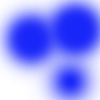
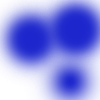
[adjust] home kv background star

diff --git a/index.html b/index.html
@@ -78,11 +78,13 @@
             <div class="home--kv--wrapper">
                 <img src="img/bg-star--l.svg" class="img-fluid home--kv--bg--star--l">
                 <img src="img/bg-star--r.svg" class="img-fluid home--kv--bg--star--r">
+                <div class="home--kv--bg--cloud"></div>
                 <img src="img/kv-bg-deco1.svg" alt="" class="img-fluid home--kv--bg--deco1">
                 <img src="img/kv-bg-deco2.svg" alt="" class="img-fluid home--kv--bg--deco2">
                 <img src="img/bg-planet--l.svg" class="img-fluid home--kv--bg--planet--l">
                 <img src="img/bg-planet--r.svg" class="img-fluid home--kv--bg--planet--r">
                 <img src="img/bg-planet-orange.svg" class="img-fluid home--kv--deco--planet--orange">
+
                 <div class="home--kv--logo">
                     <svg xmlns="http://www.w3.org/2000/svg" viewBox="0 0 781.19 369.24"><title>Modern Web 2019</title><g id="_1-kv-logo_text" data-name="1-kv-logo text"><text transform="translate(237.46 363.07)" style="font-size:32px;fill:#fff;font-family:Interstate-Bold,Interstate,'Open Sans','Helvetica Neue','微軟正黑體',Helvetica, Arial,sans-serif;font-weight:500;font-weight:500;letter-spacing:0.1999969482421875em">8/<tspan x="50.3" y="0" style="letter-spacing:0.100006103515625em">28 - 29, 2019</tspan></text><text transform="translate(218.42 313.13)" style="font-size:32px;fill:#fff;font-family:NotoSansCJKtc-Medium-B5pc-H, Noto Sans CJK TC, 'Open Sans', 'Helvetica Neue', '微軟正黑體', Helvetica, Arial, sans-serif;font-weight:500;letter-spacing:0.024993896484375em">TICC 臺北國際會議中心</text><text transform="translate(0 212.14)" style="font-size:45px;fill:#fff;font-family:NotoSansCJKtc-Medium-B5pc-H, Noto Sans CJK TC, 'Open Sans', 'Helvetica Neue', '微軟正黑體', Helvetica, Arial, sans-serif;font-weight:500;letter-spacing:0.1em">技術在我們手上</text><text transform="translate(385.19 211.65)" style="font-size:45px;fill:#fff;font-family:NotoSansCJKtc-Medium-B5pc-H, Noto Sans CJK TC, 'Open Sans', 'Helvetica Neue', '微軟正黑體', Helvetica, Arial, sans-serif;font-weight:500;letter-spacing:0.1em">世界就在我們手上</text><path d="M374.91,193.69a1.17,1.17,0,0,0-.85-.75l-8.12-1.85,2.91-12.76a1.17,1.17,0,0,0-.65-1.34,1.19,1.19,0,0,0-1.46.37l-14,18.75a1.19,1.19,0,0,0-.16,1.12,1.2,1.2,0,0,0,.85.76l8.12,1.85-2.91,12.75a1.19,1.19,0,0,0,.66,1.35l.23.08a1.21,1.21,0,0,0,1.22-.45l14-18.76A1.18,1.18,0,0,0,374.91,193.69Z" style="fill:#fff; "/><path d="M47.62,97.86,90.93,50.41v89.65H81.44V74.91L47.62,111.83,13.81,74.91v65.15H4.31V50.41Z" style="fill:#fff"/><path d="M136,67.6a37.1,37.1,0,0,1,37.26,37.26,36.09,36.09,0,0,1-10.86,26.23,36.87,36.87,0,0,1-52.64,0,36.87,36.87,0,0,1,0-52.62A36.11,36.11,0,0,1,136,67.6Zm0,9.48a27.42,27.42,0,0,0-27.79,27.78A27.41,27.41,0,0,0,136,132.64a27.69,27.69,0,0,0,27.77-27.78A27.71,27.71,0,0,0,136,77.08Z" style="fill:#fff"/><path d="M322.48,117.81l8.29,4.66A36.77,36.77,0,0,1,317.3,136.7a37.43,37.43,0,0,1-56.59-31.84,35.65,35.65,0,0,1,11-26.39,37.5,37.5,0,0,1,57.63,6.21l-48.14,42.46a28.17,28.17,0,0,0,31.14,1.53A27.4,27.4,0,0,0,322.48,117.81Zm-47.62,2.59L316.1,83.82a27.65,27.65,0,0,0-45.9,21A27.66,27.66,0,0,0,274.86,120.4Z" style="fill:#fff"/><path d="M601.7,117.81l8.27,4.66a36.64,36.64,0,0,1-13.45,14.23,37.44,37.44,0,0,1-56.6-31.84A35.62,35.62,0,0,1,551,78.47,36.07,36.07,0,0,1,577.19,67.6a38,38,0,0,1,31.4,17.08l-48.14,42.46a28.2,28.2,0,0,0,31.16,1.53A27.59,27.59,0,0,0,601.7,117.81Zm-47.63,2.59,41.24-36.58a27.65,27.65,0,0,0-45.9,21A27.74,27.74,0,0,0,554.07,120.4Z" style="fill:#fff"/><polygon points="533.88 50.41 512.73 112.8 492.02 51.72 471.31 112.8 450.16 50.41 440.15 50.41 471.31 142.31 492.02 81.23 512.73 142.31 543.89 50.41 533.88 50.41" style="fill:#fff"/><path d="M376.9,69.43a27.86,27.86,0,0,0-10-1.83,27.7,27.7,0,0,0-28.12,28.12v44.34h9.49V95.72a17.79,17.79,0,0,1,5.44-13.37,18.3,18.3,0,0,1,13.19-5.27,18.9,18.9,0,0,1,6,1Z" style="fill:#fff"/><path d="M431.59,75.71a27.15,27.15,0,0,0-20-8.11h-.07a27.72,27.72,0,0,0-28.13,28.12v44.34h9.49V95.72a17.79,17.79,0,0,1,5.44-13.37,18.3,18.3,0,0,1,13.2-5.27h.07a18.32,18.32,0,0,1,13.2,5.27,17.82,17.82,0,0,1,5.44,13.37v44.34h9.48V95.72A27.15,27.15,0,0,0,431.59,75.71Z" style="fill:#fff"/><path d="M618.27,50.24v54.62a38.62,38.62,0,0,1,.66-7.22,40.39,40.39,0,0,0-.66,7.22,36.1,36.1,0,0,0,10.87,26.23,36.86,36.86,0,0,0,52.63,0,36.87,36.87,0,0,0,0-52.62,37.29,37.29,0,0,0-52.63,0c-.32.32-.53.68-.83,1s-.38.36-.55.55V50.24Zm9.49,54.62a27.78,27.78,0,1,1,55.56,0,27.78,27.78,0,1,1-55.56,0Zm-7.14-13.13c.09-.2.12-.44.2-.65C620.74,91.29,620.71,91.53,620.62,91.73Z" style="fill:#fff"/><path d="M259.74,32.67a43.44,43.44,0,0,0,.48-6.23v0c0-12-5-22.32-12.13-26.41C241,4.09,236,14.38,236,26.41v0a42,42,0,0,0,.48,6.23,14.67,14.67,0,0,0-5,10.9,14.32,14.32,0,0,0,2,7.36,15.94,15.94,0,0,1,7.57-5.21A25.52,25.52,0,0,0,243.45,49V80c-.17-.19-.36-.36-.53-.55s-.52-.68-.84-1a37.29,37.29,0,0,0-52.63,0,36.87,36.87,0,0,0,0,52.62,36.86,36.86,0,0,0,52.63,0A36.06,36.06,0,0,0,253,104.86V48.7a27,27,0,0,0,2.14-3,15.84,15.84,0,0,1,7.57,5.21,14.23,14.23,0,0,0,2.06-7.36A14.67,14.67,0,0,0,259.74,32.67ZM229.15,93.91a11.51,11.51,0,0,0-17.55,9.81,11.83,11.83,0,0,0,.49,3.34,7.69,7.69,0,0,0-5.4,7.33c0,.12,0,.22,0,.33a10.89,10.89,0,0,0-9.41,10.78c0,.14,0,.26,0,.4-.47-.42-.94-.82-1.4-1.28a26.82,26.82,0,0,1-8-19.76A27.81,27.81,0,0,1,235.35,85.2,29.57,29.57,0,0,1,237.76,88,10.12,10.12,0,0,0,229.15,93.91Zm18.94-69.46a6.82,6.82,0,1,1,6.82-6.82A6.82,6.82,0,0,1,248.09,24.45Z" style="fill:#fff"/><path d="M712.17,117.23h-9.51l4.78-16.4H713Z" style="fill:#fff"/><path d="M725.82,141.67V112.15h-7v-6a12,12,0,0,0,5.57-1.46,6,6,0,0,0,2.77-3.86h6.77v40.84Z" style="fill:#fff"/><path d="M774.38,122.33a24.22,24.22,0,0,1-1.87,5.78,27.09,27.09,0,0,1-3.38,5.42,21,21,0,0,1-5.13,4.55,26,26,0,0,1-7.15,3.09,35,35,0,0,1-9.39,1.14v-8q7.11,0,11.58-2.4a13.05,13.05,0,0,0,6.21-7.11,14.58,14.58,0,0,1-4.09,2,18.9,18.9,0,0,1-5.24.62,19.75,19.75,0,0,1-5.66-.79,12.65,12.65,0,0,1-4.58-2.42,11.31,11.31,0,0,1-3.06-4.11,14.3,14.3,0,0,1-1.11-5.87,12.7,12.7,0,0,1,5-10.41A16.06,16.06,0,0,1,752,101.1a24.56,24.56,0,0,1,6.77-.9,20.54,20.54,0,0,1,6.35,1,13.45,13.45,0,0,1,5.16,3,14.27,14.27,0,0,1,3.45,5.16,19.94,19.94,0,0,1,1.25,7.38A30.37,30.37,0,0,1,774.38,122.33Zm-10-13q-2-1.6-6.07-1.6a10.57,10.57,0,0,0-6.32,1.63,5.26,5.26,0,0,0-2.25,4.5,5.16,5.16,0,0,0,2.16,4.6,10.58,10.58,0,0,0,6,1.46c2.8,0,4.92-.48,6.36-1.46a5.24,5.24,0,0,0,2.15-4.66A5.37,5.37,0,0,0,764.43,109.38Z" style="fill:#fff"/></g></svg>
                 </div>

diff --git a/scss/pages/_home.scss b/scss/pages/_home.scss
@@ -59,17 +59,28 @@
         top: 1em;
         width: 70%;
         left: 0;
-        z-index: -3;
+        z-index: -4;
         animation: float-star01 60s infinite;
     }
 
     &--bg--star--r {
         position: absolute;
-        top: 1em;
-        width: 100%;
+        top: 0;
+        width: 80%;
         right: 0;
-        z-index: -2;
+        z-index: -4;
         animation: float-star02 50s infinite;
+    }
+    &--bg--cloud {
+        background: url('../img/bg-twinkling.png') repeat;
+        width: 104%;
+        height: 600px;
+        left: 0;
+        top: -80px;
+        position: absolute;
+        z-index: -3;
+        opacity: .9;
+        animation: float-star01 10s alternate infinite;
     }
     &--bg--deco1 {
         position: absolute;
@@ -100,14 +111,12 @@
         width: 10em;
         right: 0;
     }
-
     &--deco--planet--orange {
         position: absolute;
         top: 16em;
         width: 3em;
         left: 4em;
     }
-
     &--logo {
         position: absolute;
         top: 40px;
@@ -281,7 +290,7 @@
                 left: 114px;
                 bottom: -108px;
                 opacity: 0.8;
-                @include media('<1366px'){
+                @include media('<1730px'){
                     display: none;
                 }
             }
@@ -292,7 +301,7 @@
                 left: -9%;
                 width: 5%;
                 opacity: 0.8;
-                @include media('<576px'){
+                @include media('<1730px'){
                     display: none;
                 }
             }

diff --git a/css/main.css b/css/main.css
@@ -544,8 +544,7 @@ nav {
   transition: all .3s ease; }
 
 .menu--scroll {
-  background-color: #0a0d45;
-  box-shadow: 0px 3px 8px #0a0d45; }
+  background-color: #0a0d45; }
   .menu--scroll .navbar--logo {
     display: inline-block; }
 
@@ -951,15 +950,25 @@ nav {
     top: 1em;
     width: 70%;
     left: 0;
-    z-index: -3;
+    z-index: -4;
     animation: float-star01 60s infinite; }
   .home--kv--bg--star--r {
     position: absolute;
-    top: 1em;
-    width: 100%;
+    top: 0;
+    width: 80%;
     right: 0;
-    z-index: -2;
+    z-index: -4;
     animation: float-star02 50s infinite; }
+  .home--kv--bg--cloud {
+    background: url("../img/bg-twinkling.png") repeat;
+    width: 104%;
+    height: 600px;
+    left: 0;
+    top: -80px;
+    position: absolute;
+    z-index: -3;
+    opacity: .9;
+    animation: float-star01 10s alternate infinite; }
   .home--kv--bg--deco1 {
     position: absolute;
     width: 80%;
@@ -1125,7 +1134,7 @@ nav {
         left: 114px;
         bottom: -108px;
         opacity: 0.8; }
-        @media (max-width: 1365px) {
+        @media (max-width: 1729px) {
           .home--intro--left--bg--planet {
             display: none; } }
       .home--intro--left--bg--planet2 {
@@ -1135,7 +1144,7 @@ nav {
         left: -9%;
         width: 5%;
         opacity: 0.8; }
-        @media (max-width: 575px) {
+        @media (max-width: 1729px) {
           .home--intro--left--bg--planet2 {
             display: none; } }
     .home--intro--left--cover {

diff --git a/scss/base/_layout.scss b/scss/base/_layout.scss
@@ -147,7 +147,7 @@ nav {
 // scroll menu
 .menu--scroll{
     background-color: darken($bg-blue,30%);
-    box-shadow: 0px 3px 8px darken($bg-blue,30%);
+    // box-shadow: 0px 3px 8px darken($bg-blue,30%);
     // @include media("<992px"){
     //     background-color: darken($bg-blue,30%);
     // }
